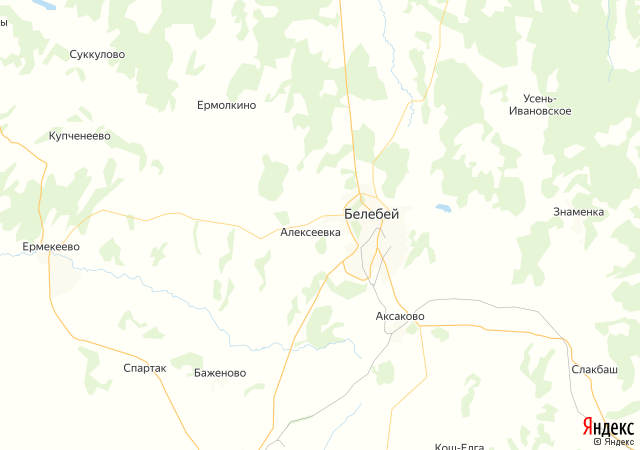
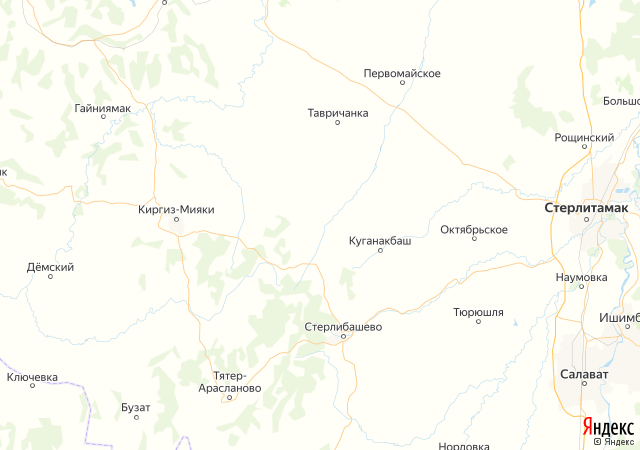
Перемещение по карте/1

diff --git a/main.py b/main.py
@@ -1,5 +1,7 @@
 import sys
 import requests
+from PyQt5.QtCore import Qt
+
 from data.form import Ui_MainWindow as UW
 from PIL import Image
 from PyQt5 import uic
@@ -63,9 +65,19 @@ class Window(QtWidgets.QMainWindow, UW):
     def refresh_map(self):
         self.map.setPixmap(self.get_map())
 
-    def keyPressEvent(self, a0: QtGui.QKeyEvent):
-        spn0 = float(self.spn.split(",")[0])
-        spn1 = float(self.spn.split(",")[1])
+    def keyPressEvent(self, event):
+        x = float(self.ll.split(",")[0])
+        y = float(self.ll.split(",")[1])
+        if event.key() == Qt.Key_Down:
+            y -= 0.01
+        elif event.key() == Qt.Key_Up:
+            y += 0.01
+        elif event.key() == Qt.Key_Right:
+            x += 0.01
+        elif event.key() == Qt.Key_Left:
+            x -= 0.01
+        self.ll = str(x) + "," + str(y)
+        self.refresh_map()
 
 
 def except_hook(cls, exception, traceback):
